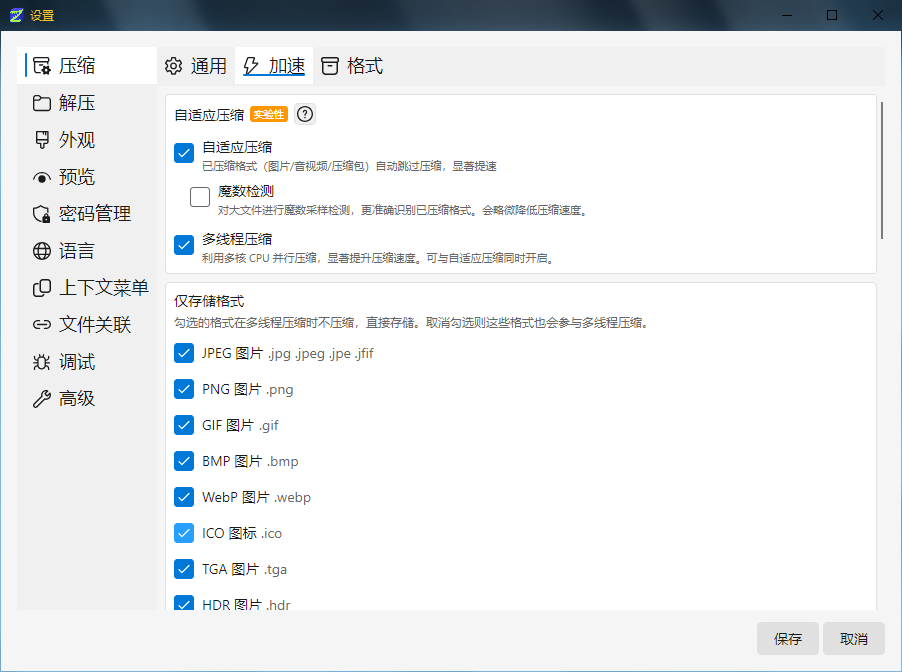
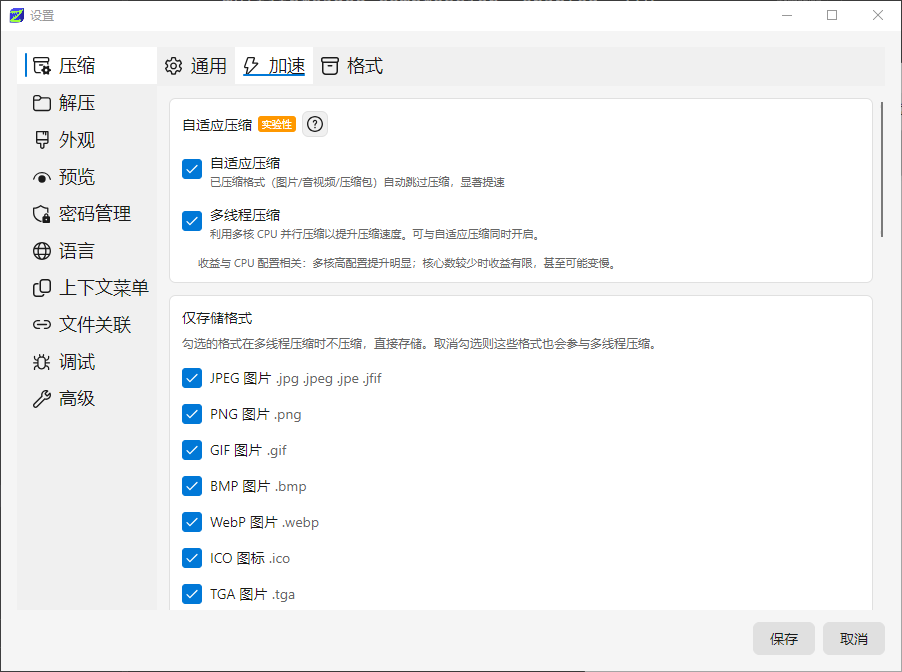
test(core): 修复 CI 上 MT 进度断言竞态与磁盘类型检测环境假设
- CompressAsync_MultiThreaded_ReportsProgress 改用 SyncProgress<T>：Progress<T> 在线程池异步投递导致 92% 中间报告（99.6）晚于终态 100 到达，断言「最后一条」成竞态
- GetDiskType_LocalFixedDrive_DetectsSsdOrHdd 允许云 CI 返回 Unknown（SeekPenalty IOCTL 不受支持，生产侧已有保守兜底），仅当检出时断言 Ssd/Hdd
- 验证：Release + CI 同参过滤 710 通过 / 0 失败 / 1 跳过
- 同步刷新 v0.5.2 两张截图（压缩加速设置 / 帮助对话框）

diff --git a/tests/MantisZip.Tests/Utils/DiskTypeDetectorTests.cs b/tests/MantisZip.Tests/Utils/DiskTypeDetectorTests.cs
@@ -25,9 +25,18 @@ public class DiskTypeDetectorTests
     [Fact]
     public void GetDiskType_LocalFixedDrive_DetectsSsdOrHdd()
     {
-        // 本地固定盘（Temp 所在卷）必须检测成功；非 Windows 实现返回 Unknown，此处仅验证 Windows
+        // 本地固定盘（Temp 所在卷）在真实硬件上必须检测成功；非 Windows 实现返回 Unknown，此处仅验证 Windows
         if (!OperatingSystem.IsWindows()) return;
-        Assert.NotEqual(DiskType.Unknown, DiskTypeDetector.GetDiskType(Path.GetTempPath()));
+
+        var result = DiskTypeDetector.GetDiskType(Path.GetTempPath());
+
+        // 云 CI / 虚拟化存储栈可能不支持 IOCTL_STORAGE_QUERY_PROPERTY(SeekPenalty)，
+        // 此时生产代码合法返回 Unknown —— ParallelDegreeResolver 会回退到保守并行度，
+        // 属预期降级而非缺陷（GitHub Actions runner 的临时卷实测即如此），故不做失败断言。
+        if (result == DiskType.Unknown) return;
+
+        Assert.True(result is DiskType.Ssd or DiskType.Hdd,
+            $"检测成功的唯一合法取值应为 Ssd 或 Hdd，实际 {result}");
     }
 
     [Fact]

diff --git a/tests/MantisZip.Tests/Engines/ZipEngineTests.cs b/tests/MantisZip.Tests/Engines/ZipEngineTests.cs
@@ -1163,10 +1163,14 @@ public class ZipEngineTests : IDisposable
         var outputPath = TrackFile(Path.Combine(Path.GetTempPath(), "MantisZipTest", $"{Guid.NewGuid()}_mt_progress.zip"));
         var progressItems = new List<ArchiveProgress>();
 
+        // 必须用 SyncProgress（同步回调），不能用 Progress<T>：
+        // Progress<T> 无 SynchronizationContext 时投递到线程池，既不保证顺序也不保证
+        // CompressAsync 返回时已全部送达 —— 曾导致最后一条为合并阶段的 99.6（= 92% 重映射值）
+        // 而非终态 100，CI 上稳定失败（断言「最后一条」本身存在竞态）。
         await _engine.CompressAsync([srcDir], outputPath, new ArchiveOptions
         {
             MultiThreadedCompression = true,
-        }, progress: new Progress<ArchiveProgress>(p => progressItems.Add(p)));
+        }, progress: new SyncProgress<ArchiveProgress>(progressItems.Add));
 
         Assert.True(File.Exists(outputPath));
         Assert.NotEmpty(progressItems);

diff --git a/docs/progress-avalonia-detail.md b/docs/progress-avalonia-detail.md
@@ -2433,6 +2433,13 @@
 ## 共享层（Core / ShellExt / 构建）
 这些变更影响两项目共用代码，按时间从新到旧排列。
 
+#### v0.5.2 (2026-10-20) 修复 CI 上两处测试失败：MT 进度断言竞态 + 磁盘类型检测环境假设
+  - **失败 1 `ZipEngineTests.CompressAsync_MultiThreaded_ReportsProgress`（期望 100，实际 99.599999999999994）**：根因在测试侧——用 `Progress<T>` 收集进度，无 `SynchronizationContext` 时回调投递到线程池，**既不保证顺序也不保证 `CompressAsync` 返回前全部送达**，「取最后一条」本身就是竞态。99.6 可精确反推：合并适配器 `groupEndPercent(95) + 5 × 0.92 = 99.6`，即 `ZipBinaryRewriter` 的 92% 中间报告（`ZipEngine.cs:2049-2053`）晚于终态 100（`ZipEngine.cs:2090`）到达。修复：改用同文件已有的 `SyncProgress<T>`（同步回调；兄弟测试 `CompressAsync_MultiThreaded_MirrorPhase_AdvancesOverallProgress` 早前即为此引入），断言不变。
+  - **失败 2 `DiskTypeDetectorTests.GetDiskType_LocalFixedDrive_DetectsSsdOrHdd`（返回 Unknown）**：GitHub Actions 临时卷不支持 `IOCTL_STORAGE_QUERY_PROPERTY(SeekPenalty)`，`DiskTypeDetector.QuerySeekPenalty` 对此合法返回 `Unknown`（`ParallelDegreeResolver.cs:122-124` 已有保守兜底），测试却把「本机固定盘必检出」当硬约束。修复：Windows 上 `Unknown` 时直接返回并注明云 CI 属预期降级，否则断言 `Ssd/Hdd`。**生产代码未改**。
+  - **验证**：`dotnet test tests\MantisZip.Tests --configuration Release --filter "FullyQualifiedName!~SevenZipEngine"`（与 CI 同参）→ **710 通过 / 0 失败 / 1 跳过**。本机磁盘检测走「成功」分支，CI 的 `Unknown` 分支无法本地复现（该分支为提前 return，不会产生失败断言）。
+  - **同源隐患（未改）**：`ZipEngineTests.cs:727`、`SevenZipEngineTests.cs:585`、`TarGzEngineTests.cs:173` 仍用 `Progress<T>`，当前 CI 未失败；若日后出现「最后一条不是 100%」偶发失败，属同类问题。
+  - **文档资源**：同步刷新 v0.5.2 截图 `docs/images/version/v0.5.2/CompressSpeedUpSetting.png`、`HelpDialog.png`（仅替换图片，无功能变更）。
+
 #### v0.5.2 (2026-10-15) 修复损坏 ZIP 被静默通过——改用 SharpCompress 官方 CRC 校验路径（ZipEngine）
   - **根因**：`ZipEngine` 的测试与解压（串行/并行/过滤四处）均用 `IArchiveEntry.OpenEntryStream()` 读裸流。SharpCompress 的 `OpenEntryStream()` **不校验 CRC**（实测 0.48.1 / 0.50.4 行为一致，`ReaderFactory` 前向读同样不校验）；代码注释「SharpCompress 在读取完整流时内部会检测 CRC」的假设不成立 → 损坏仅在解码器自身报错（deflate 的 zlib 自检、头部解析）时偶然检出，而「数据被改动但仍可解码」的条目（stored 字节翻转、CRC 字段错）被静默解出且无任何报错。
   - **官方机制**：校验能力只挂在官方高层提取 API——`ZipEntry.Checksum` 返回 `ChecksumDescriptor(Crc32, IsAvailable: true)`，`ChecksumValidationStream` 仅在 `IArchiveEntryExtensions.WriteTo`/`WriteToAsync` 中按 `ExtractionOptions.CheckCrc`（默认 true）包裹；官方 `ZipCrcExtractionTests` 证明 `CheckCrc=true` 抛 `InvalidFormatException`。0.48.1 尚无 `ExtractionOptions.CheckCrc`（该机制为 0.48.1 之后新增）→ 非版本回归，换版本无解。
